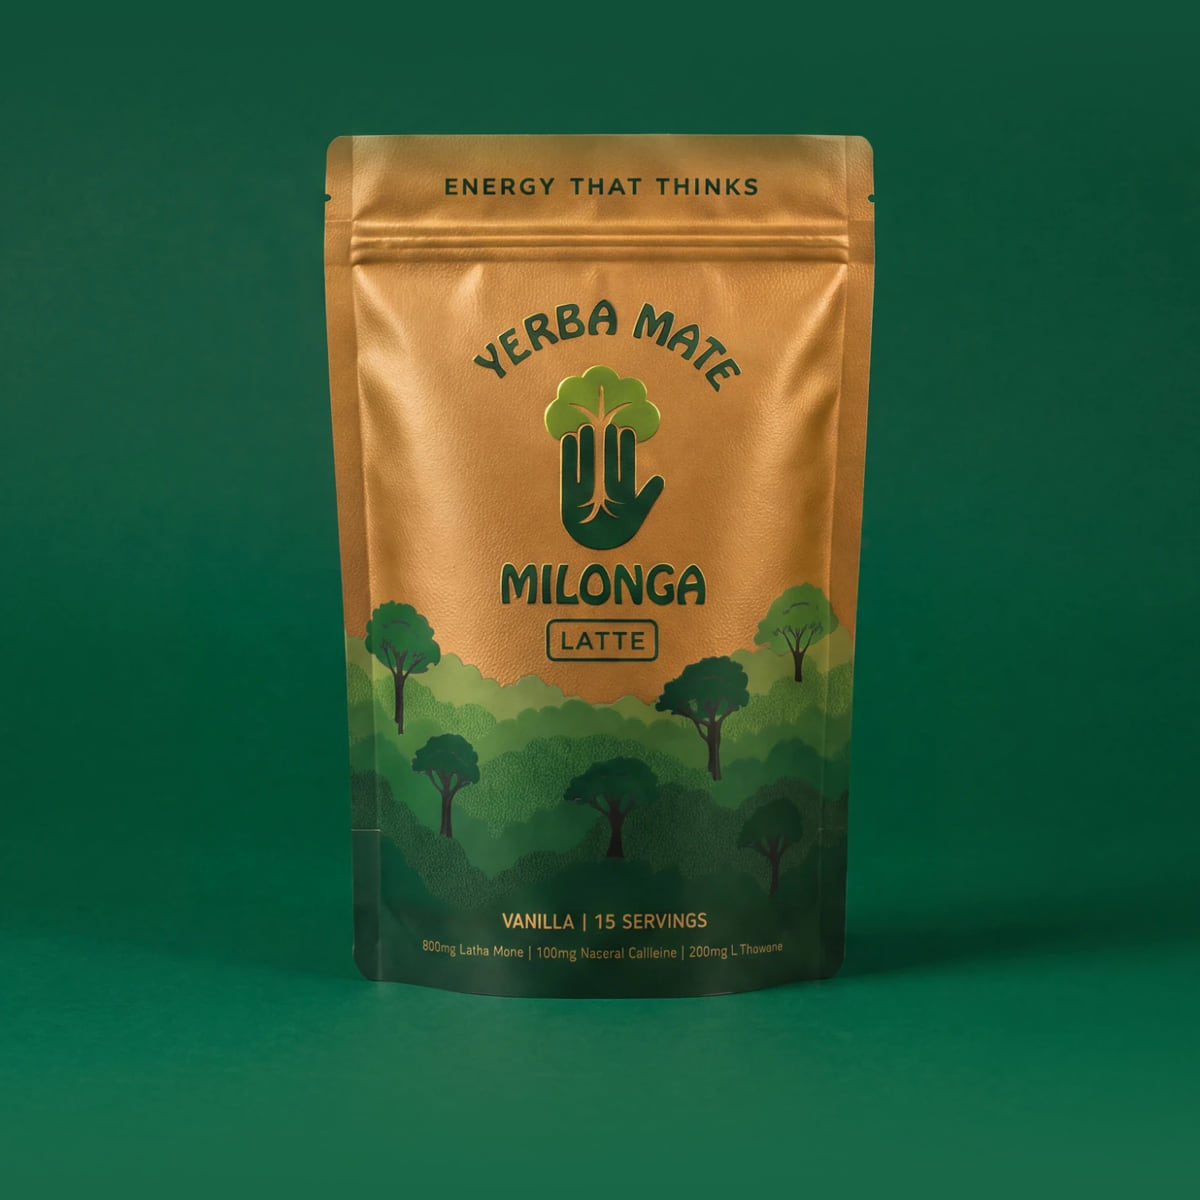
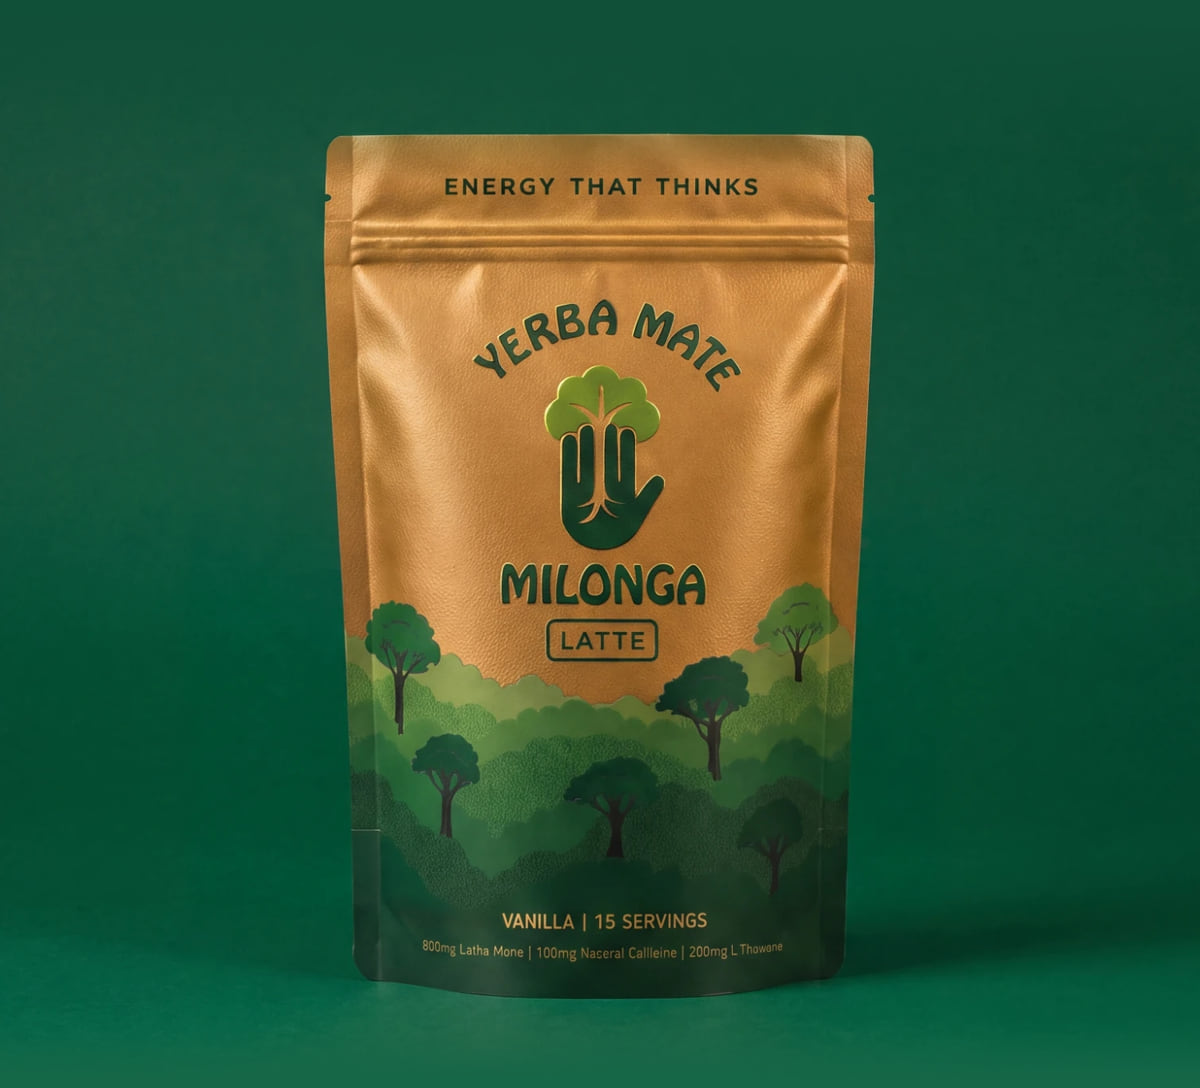
Post-purchase E3: save line in the hero, button closer to the pouch, 15 vs 30 servings cards
Claude-Session: https://claude.ai/code/session_01NhEtXPnfeCJfN73SqBkUZ5

Changed region(s): [[0.2158, 0.0938, 1.0, 0.9375]]

diff --git a/email-ds/refine/pp1-e3.html b/email-ds/refine/pp1-e3.html
@@ -41,7 +41,7 @@ body{margin:0;background:#FFFFFF;padding:28px 0 60px}
   @media (prefers-color-scheme: dark) {
     .bg-white { background-color:#FFFFFF !important; }
     .bg-hero-top { background-color:#104F38 !important; }
-    .bg-hero { background-color:#186847 !important; }
+    .bg-hero { background-color:#156747 !important; }
     .bg-cream { background-color:#F7F4EA !important; }
     .bg-page { background-color:#F0EFDF !important; }
     .bg-forest { background-color:#004D27 !important; }
@@ -61,14 +61,13 @@ body{margin:0;background:#FFFFFF;padding:28px 0 60px}
 <div style="padding-top:30px;"><div style="font-size:12px;line-height:16px;font-weight:700;letter-spacing:3px;text-transform:uppercase;color:#E3BC62;">Running low?</div></div>
 <div class="h-hero" style="padding-top:10px;font-family:'Times New Roman',Times,Georgia,serif;font-size:54px;line-height:58px;font-weight:400;color:#F0EFDF;">Your bag&rsquo;s</div>
 <div class="h-hero" style="font-family:'Times New Roman',Times,Georgia,serif;font-size:54px;line-height:58px;font-weight:700;font-style:italic;color:#F0EFDF;">almost empty.</div>
-<div class="lead" style="padding-top:16px;font-size:16px;line-height:24px;font-weight:500;color:#CFE0D4;">15 cups go fast when they&rsquo;re your morning ritual. Join the Mate Mornings Club and a fresh bag shows up every month, so your mornings <span style="white-space:nowrap;">never skip a beat.</span></div>
+<div class="lead" style="padding-top:16px;font-size:16px;line-height:24px;font-weight:500;color:#CFE0D4;">15 cups go fast when they&rsquo;re your morning ritual. Join the Mate Mornings Club and you save 30% on every order, with a fresh bag at your door every month, so your mornings <span style="white-space:nowrap;">never skip a beat.</span></div>
 </td></tr>
-<tr><td class="bg-hero-top" bgcolor="#104F38" style="background-color:#104F38;padding:0;font-size:0;line-height:0;"><a href="https://milonga.life/products/the-original-mate-latte?utm_source=klaviyo&amp;utm_medium=email&amp;utm_campaign=post_purchase_mate_latte&amp;utm_content=pp3_hero_photo" target="_blank"><img class="full" src="../exports/klaviyo/pp1-e3/img/hero.jpg" width="600" height="600" alt="The Mate Latte pouch on deep green" style="display:block;width:600px;height:600px;border:0;"></a></td></tr>
-<tr><td class="pad bg-hero" align="center" bgcolor="#186847" style="background-color:#186847;padding:0 40px 52px;font-family:'Montserrat','Helvetica Neue',Helvetica,Arial,sans-serif;">
+<tr><td class="bg-hero-top" bgcolor="#104F38" style="background-color:#104F38;padding:0;font-size:0;line-height:0;"><a href="https://milonga.life/products/the-original-mate-latte?utm_source=klaviyo&amp;utm_medium=email&amp;utm_campaign=post_purchase_mate_latte&amp;utm_content=pp3_hero_photo" target="_blank"><img class="full" src="../exports/klaviyo/pp1-e3/img/hero.jpg" width="600" height="544" alt="The Mate Latte pouch on deep green" style="display:block;width:600px;height:544px;border:0;"></a></td></tr>
+<tr><td class="pad bg-hero" align="center" bgcolor="#156747" style="background-color:#156747;padding:0 40px 52px;font-family:'Montserrat','Helvetica Neue',Helvetica,Arial,sans-serif;">
 <!--[if mso]>
 <v:roundrect xmlns:v="urn:schemas-microsoft-com:vml" xmlns:w="urn:schemas-microsoft-com:office:word" href="https://milonga.life/products/the-original-mate-latte?utm_source=klaviyo&amp;utm_medium=email&amp;utm_campaign=post_purchase_mate_latte&amp;utm_content=pp3_hero_button" style="height:56px;v-text-anchor:middle;width:280px;" arcsize="50%" stroke="f" fillcolor="#E3BC62"><w:anchorlock/><center style="color:#004D27;font-family:Arial,sans-serif;font-size:16px;font-weight:bold;letter-spacing:2px;">Join the club</center></v:roundrect>
 <![endif]--><!--[if !mso]><!-- --><a href="https://milonga.life/products/the-original-mate-latte?utm_source=klaviyo&amp;utm_medium=email&amp;utm_campaign=post_purchase_mate_latte&amp;utm_content=pp3_hero_button" target="_blank" class="btn" style="display:inline-block;background-color:#E3BC62;border-radius:999px;padding:20px 40px;font-family:'Montserrat','Helvetica Neue',Helvetica,Arial,sans-serif;font-size:16px;line-height:16px;font-weight:700;letter-spacing:2px;text-transform:uppercase;white-space:nowrap;color:#004D27;text-decoration:none;box-shadow:0 4px 0 #B8913A;">Join the club</a><!--<![endif]-->
-<div style="padding-top:18px;font-size:11px;line-height:16px;font-weight:700;letter-spacing:2px;text-transform:uppercase;color:#F0EFDF;"><span style="white-space:nowrap;">Free shipping over $45</span> &middot; <span style="white-space:nowrap;">30-day money-back guarantee</span></div>
 </td></tr>
 
 <!-- ── 2 · ONE BAG, 15 CUPS: the cups already had, and the last few ── -->
@@ -89,18 +88,19 @@ body{margin:0;background:#FFFFFF;padding:28px 0 60px}
 <div style="font-size:12px;line-height:16px;font-weight:700;letter-spacing:3px;text-transform:uppercase;color:#004D27;">Keep it going for less</div>
 <div class="h-sec" style="padding-top:12px;font-family:'Times New Roman',Times,Georgia,serif;font-size:40px;line-height:44px;font-weight:400;color:#004D27;">Same Mate Latte,</div>
 <div class="h-sec" style="font-family:'Times New Roman',Times,Georgia,serif;font-size:40px;line-height:44px;font-weight:700;font-style:italic;color:#004D27;">30% less.</div>
+<div class="lead" style="padding-top:16px;font-size:16px;line-height:24px;font-weight:500;color:#12331F;">A 15-serving bag lasts about two weeks. Go for 30 servings in the club and you&rsquo;re covered <span style="white-space:nowrap;">all month,</span> <span style="white-space:nowrap;">for less a cup.</span></div>
 </td></tr>
-<tr><td class="pad-photo bg-page" bgcolor="#F0EFDF" style="background-color:#F0EFDF;padding:28px 30px 56px;">
+<tr><td class="pad-photo bg-page" bgcolor="#F0EFDF" style="background-color:#F0EFDF;padding:28px 30px 26px;">
 <table role="presentation" width="100%" cellpadding="0" cellspacing="0" border="0" style="border-collapse:separate;"><tr>
 <td class="cmp-l" width="50%" valign="top" style="width:50%;padding:0 6px 0 0;">
 <table role="presentation" width="100%" cellpadding="0" cellspacing="0" border="0" style="border-collapse:separate;"><tr>
 <td class="cmp-card" align="center" valign="top" bgcolor="#FFFFFF" style="background-color:#FFFFFF;border:2px solid #D9D6BE;border-radius:22px; padding:24px 16px 22px;font-family:'Montserrat','Helvetica Neue',Helvetica,Arial,sans-serif;">
 <div style="font-size:11px;line-height:14px;font-weight:700;letter-spacing:2px;text-transform:uppercase;color:#004D27;">One-time</div>
-<div class="cmp-price" style="padding-top:12px;font-family:'Times New Roman',Times,Georgia,serif;font-size:40px;line-height:42px;font-weight:700;color:#004D27;">$69.98</div>
-<div class="cmp-text" style="padding-top:6px;font-size:14px;line-height:18px;font-weight:700;color:#12331F;">30 servings</div>
+<div class="cmp-price" style="padding-top:12px;font-family:'Times New Roman',Times,Georgia,serif;font-size:40px;line-height:42px;font-weight:700;color:#004D27;">$34.99</div>
+<div class="cmp-text" style="padding-top:6px;font-size:14px;line-height:18px;font-weight:700;color:#12331F;">15 servings</div>
 <div class="cmp-text" style="padding-top:2px;font-size:13px;line-height:18px;font-weight:500;color:#3B5344;">$2.33 a cup</div>
 <div style="margin:16px auto 0;width:40px;border-top:2px solid #D9D6BE;font-size:0;line-height:0;">&nbsp;</div>
-<div class="cmp-text" style="padding-top:8px;font-size:13px;line-height:18px;font-weight:500;color:#12331F;">Reorder yourself each time <span style="white-space:nowrap;">you run out</span></div>
+<div class="cmp-text" style="padding-top:8px;font-size:13px;line-height:18px;font-weight:500;color:#12331F;">About two weeks of mornings, then <span style="white-space:nowrap;">reorder yourself</span></div>
 <div style="padding-top:18px;"><table role="presentation" cellpadding="0" cellspacing="0" border="0" align="center" style="margin:0 auto;border-collapse:separate;"><tr>
 <td class="pill" align="center" bgcolor="#004D27" style="background-color:#004D27;border-radius:999px;"><a href="https://milonga.life/products/the-original-mate-latte?utm_source=klaviyo&amp;utm_medium=email&amp;utm_campaign=post_purchase_mate_latte&amp;utm_content=pp3_onetime_link" target="_blank" style="display:inline-block;padding:11px 20px;font-family:'Montserrat','Helvetica Neue',Helvetica,Arial,sans-serif;font-size:12px;line-height:14px;font-weight:700;letter-spacing:1.5px;text-transform:uppercase;white-space:nowrap;color:#F0EFDF;text-decoration:none;">Buy one-time</a></td>
 </tr></table></div>
@@ -109,7 +109,7 @@ body{margin:0;background:#FFFFFF;padding:28px 0 60px}
 <td class="cmp-r" width="50%" valign="top" style="width:50%;padding:0 0 0 6px;">
 <table role="presentation" width="100%" cellpadding="0" cellspacing="0" border="0" style="border-collapse:separate;"><tr>
 <td class="cmp-card" align="center" valign="top" bgcolor="#004D27" style="background-color:#004D27;border:3px solid #E3BC62;border-radius:22px; padding:24px 16px 22px;font-family:'Montserrat','Helvetica Neue',Helvetica,Arial,sans-serif;">
-<div style="display:inline-block;background-color:#E3BC62;border-radius:999px;padding:5px 12px;font-size:10px;line-height:12px;font-weight:700;letter-spacing:1.5px;text-transform:uppercase;color:#004D27;">Best value</div>
+<div style="display:inline-block;background-color:#E3BC62;border-radius:999px;padding:5px 12px;font-size:10px;line-height:12px;font-weight:700;letter-spacing:1.5px;text-transform:uppercase;color:#004D27;">Double the cups</div>
 <div style="padding-top:10px;font-family:'Times New Roman',Times,Georgia,serif;font-size:20px;line-height:22px;font-weight:700;font-style:italic;color:#E3BC62;">Mate Mornings Club</div>
 <div class="cmp-price" style="padding-top:8px;font-family:'Times New Roman',Times,Georgia,serif;font-size:40px;line-height:42px;font-weight:700;color:#FFFFFF;">$48.99</div>
 <div class="cmp-text" style="padding-top:6px;font-size:14px;line-height:18px;font-weight:700;color:#FFFFFF;">30 servings <span style="font-weight:500;color:#CFE0D4;text-decoration:line-through;">$69.98</span></div>
@@ -123,13 +123,16 @@ body{margin:0;background:#FFFFFF;padding:28px 0 60px}
 <tr><td class="club-ico" width="20" valign="top" style="width:20px;padding:9px 8px 0 0;"><img src="../exports/klaviyo/cart-e1/img/icon-pause.png" width="18" height="18" alt="" role="presentation" style="display:block;width:18px;height:18px;border:0;"></td>
 <td class="cmp-text" valign="top" style="padding:8px 0 0;font-family:'Montserrat','Helvetica Neue',Helvetica,Arial,sans-serif;font-size:13px;line-height:18px;font-weight:500;color:#FFFFFF;text-align:left;">Skip, pause or cancel anytime</td></tr>
 </table>
-<div class="cmp-text" style="padding-top:12px;font-size:13px;line-height:18px;font-weight:700;color:#E3BC62;">Your Mate Latte every morning, <span style="white-space:nowrap;">all month long.</span></div>
+<div class="cmp-text" style="padding-top:12px;font-size:13px;line-height:18px;font-weight:700;color:#E3BC62;">Twice the cups, a whole month <span style="white-space:nowrap;">of mornings.</span></div>
 <div style="padding-top:16px;"><table role="presentation" cellpadding="0" cellspacing="0" border="0" align="center" style="margin:0 auto;border-collapse:separate;"><tr>
 <td class="pill" align="center" bgcolor="#E3BC62" style="background-color:#E3BC62;border-radius:999px;"><a href="https://milonga.life/products/the-original-mate-latte?utm_source=klaviyo&amp;utm_medium=email&amp;utm_campaign=post_purchase_mate_latte&amp;utm_content=pp3_club_card" target="_blank" style="display:inline-block;padding:11px 20px;font-family:'Montserrat','Helvetica Neue',Helvetica,Arial,sans-serif;font-size:12px;line-height:14px;font-weight:700;letter-spacing:1.5px;text-transform:uppercase;white-space:nowrap;color:#004D27;text-decoration:none;">Join the club</a></td>
 </tr></table></div>
 </td></tr></table>
 </td>
 </tr></table>
+</td></tr>
+<tr><td class="pad bg-page" align="center" bgcolor="#F0EFDF" style="background-color:#F0EFDF;padding:0 40px 56px;font-family:'Montserrat','Helvetica Neue',Helvetica,Arial,sans-serif;">
+<div style="font-family:'Times New Roman',Times,Georgia,serif;font-size:24px;line-height:28px;font-weight:700;font-style:italic;color:#004D27;">Twice the cups for just $14 more.</div>
 </td></tr>
 
 <!-- ── 4 · HOW THE CLUB WORKS ─────────────────────────────────────── -->

diff --git a/email-ds/exports/klaviyo/pp1-e3/pp1-e3.html b/email-ds/exports/klaviyo/pp1-e3/pp1-e3.html
@@ -44,7 +44,7 @@
   @media (prefers-color-scheme: dark) {
     .bg-white { background-color:#FFFFFF !important; }
     .bg-hero-top { background-color:#104F38 !important; }
-    .bg-hero { background-color:#186847 !important; }
+    .bg-hero { background-color:#156747 !important; }
     .bg-cream { background-color:#F7F4EA !important; }
     .bg-page { background-color:#F0EFDF !important; }
     .bg-forest { background-color:#004D27 !important; }
@@ -63,14 +63,13 @@
 <div style="padding-top:30px;"><div style="font-size:12px;line-height:16px;font-weight:700;letter-spacing:3px;text-transform:uppercase;color:#E3BC62;">Running low?</div></div>
 <div class="h-hero" style="padding-top:10px;font-family:'Times New Roman',Times,Georgia,serif;font-size:54px;line-height:58px;font-weight:400;color:#F0EFDF;">Your bag&rsquo;s</div>
 <div class="h-hero" style="font-family:'Times New Roman',Times,Georgia,serif;font-size:54px;line-height:58px;font-weight:700;font-style:italic;color:#F0EFDF;">almost empty.</div>
-<div class="lead" style="padding-top:16px;font-size:16px;line-height:24px;font-weight:500;color:#CFE0D4;">15 cups go fast when they&rsquo;re your morning ritual. Join the Mate Mornings Club and a fresh bag shows up every month, so your mornings <span style="white-space:nowrap;">never skip a beat.</span></div>
+<div class="lead" style="padding-top:16px;font-size:16px;line-height:24px;font-weight:500;color:#CFE0D4;">15 cups go fast when they&rsquo;re your morning ritual. Join the Mate Mornings Club and you save 30% on every order, with a fresh bag at your door every month, so your mornings <span style="white-space:nowrap;">never skip a beat.</span></div>
 </td></tr>
-<tr><td class="bg-hero-top" bgcolor="#104F38" style="background-color:#104F38;padding:0;font-size:0;line-height:0;"><a href="https://milonga.life/products/the-original-mate-latte?utm_source=klaviyo&amp;utm_medium=email&amp;utm_campaign=post_purchase_mate_latte&amp;utm_content=pp3_hero_photo" target="_blank"><img class="full" src="https://cdn.klaviyomail.com/company/TwvSnK/images/f698c772-5783-4bb6-bc98-c63cbfb698ec.jpeg" width="600" height="600" alt="The Mate Latte pouch on deep green" style="display:block;width:600px;height:600px;border:0;"></a></td></tr>
-<tr><td class="pad bg-hero" align="center" bgcolor="#186847" style="background-color:#186847;padding:0 40px 52px;font-family:'Montserrat','Helvetica Neue',Helvetica,Arial,sans-serif;">
+<tr><td class="bg-hero-top" bgcolor="#104F38" style="background-color:#104F38;padding:0;font-size:0;line-height:0;"><a href="https://milonga.life/products/the-original-mate-latte?utm_source=klaviyo&amp;utm_medium=email&amp;utm_campaign=post_purchase_mate_latte&amp;utm_content=pp3_hero_photo" target="_blank"><img class="full" src="https://cdn.klaviyomail.com/company/TwvSnK/images/f698c772-5783-4bb6-bc98-c63cbfb698ec.jpeg" width="600" height="544" alt="The Mate Latte pouch on deep green" style="display:block;width:600px;height:544px;border:0;"></a></td></tr>
+<tr><td class="pad bg-hero" align="center" bgcolor="#156747" style="background-color:#156747;padding:0 40px 52px;font-family:'Montserrat','Helvetica Neue',Helvetica,Arial,sans-serif;">
 <!--[if mso]>
 <v:roundrect xmlns:v="urn:schemas-microsoft-com:vml" xmlns:w="urn:schemas-microsoft-com:office:word" href="https://milonga.life/products/the-original-mate-latte?utm_source=klaviyo&amp;utm_medium=email&amp;utm_campaign=post_purchase_mate_latte&amp;utm_content=pp3_hero_button" style="height:56px;v-text-anchor:middle;width:280px;" arcsize="50%" stroke="f" fillcolor="#E3BC62"><w:anchorlock/><center style="color:#004D27;font-family:Arial,sans-serif;font-size:16px;font-weight:bold;letter-spacing:2px;">Join the club</center></v:roundrect>
 <![endif]--><!--[if !mso]><!-- --><a href="https://milonga.life/products/the-original-mate-latte?utm_source=klaviyo&amp;utm_medium=email&amp;utm_campaign=post_purchase_mate_latte&amp;utm_content=pp3_hero_button" target="_blank" class="btn" style="display:inline-block;background-color:#E3BC62;border-radius:999px;padding:20px 40px;font-family:'Montserrat','Helvetica Neue',Helvetica,Arial,sans-serif;font-size:16px;line-height:16px;font-weight:700;letter-spacing:2px;text-transform:uppercase;white-space:nowrap;color:#004D27;text-decoration:none;box-shadow:0 4px 0 #B8913A;">Join the club</a><!--<![endif]-->
-<div style="padding-top:18px;font-size:11px;line-height:16px;font-weight:700;letter-spacing:2px;text-transform:uppercase;color:#F0EFDF;"><span style="white-space:nowrap;">Free shipping over $45</span> &middot; <span style="white-space:nowrap;">30-day money-back guarantee</span></div>
 </td></tr>
 
 <!-- ── 2 · ONE BAG, 15 CUPS: the cups already had, and the last few ── -->
@@ -91,18 +90,19 @@
 <div style="font-size:12px;line-height:16px;font-weight:700;letter-spacing:3px;text-transform:uppercase;color:#004D27;">Keep it going for less</div>
 <div class="h-sec" style="padding-top:12px;font-family:'Times New Roman',Times,Georgia,serif;font-size:40px;line-height:44px;font-weight:400;color:#004D27;">Same Mate Latte,</div>
 <div class="h-sec" style="font-family:'Times New Roman',Times,Georgia,serif;font-size:40px;line-height:44px;font-weight:700;font-style:italic;color:#004D27;">30% less.</div>
+<div class="lead" style="padding-top:16px;font-size:16px;line-height:24px;font-weight:500;color:#12331F;">A 15-serving bag lasts about two weeks. Go for 30 servings in the club and you&rsquo;re covered <span style="white-space:nowrap;">all month,</span> <span style="white-space:nowrap;">for less a cup.</span></div>
 </td></tr>
-<tr><td class="pad-photo bg-page" bgcolor="#F0EFDF" style="background-color:#F0EFDF;padding:28px 30px 56px;">
+<tr><td class="pad-photo bg-page" bgcolor="#F0EFDF" style="background-color:#F0EFDF;padding:28px 30px 26px;">
 <table role="presentation" width="100%" cellpadding="0" cellspacing="0" border="0" style="border-collapse:separate;"><tr>
 <td class="cmp-l" width="50%" valign="top" style="width:50%;padding:0 6px 0 0;">
 <table role="presentation" width="100%" cellpadding="0" cellspacing="0" border="0" style="border-collapse:separate;"><tr>
 <td class="cmp-card" align="center" valign="top" bgcolor="#FFFFFF" style="background-color:#FFFFFF;border:2px solid #D9D6BE;border-radius:22px; padding:24px 16px 22px;font-family:'Montserrat','Helvetica Neue',Helvetica,Arial,sans-serif;">
 <div style="font-size:11px;line-height:14px;font-weight:700;letter-spacing:2px;text-transform:uppercase;color:#004D27;">One-time</div>
-<div class="cmp-price" style="padding-top:12px;font-family:'Times New Roman',Times,Georgia,serif;font-size:40px;line-height:42px;font-weight:700;color:#004D27;">$69.98</div>
-<div class="cmp-text" style="padding-top:6px;font-size:14px;line-height:18px;font-weight:700;color:#12331F;">30 servings</div>
+<div class="cmp-price" style="padding-top:12px;font-family:'Times New Roman',Times,Georgia,serif;font-size:40px;line-height:42px;font-weight:700;color:#004D27;">$34.99</div>
+<div class="cmp-text" style="padding-top:6px;font-size:14px;line-height:18px;font-weight:700;color:#12331F;">15 servings</div>
 <div class="cmp-text" style="padding-top:2px;font-size:13px;line-height:18px;font-weight:500;color:#3B5344;">$2.33 a cup</div>
 <div style="margin:16px auto 0;width:40px;border-top:2px solid #D9D6BE;font-size:0;line-height:0;">&nbsp;</div>
-<div class="cmp-text" style="padding-top:8px;font-size:13px;line-height:18px;font-weight:500;color:#12331F;">Reorder yourself each time <span style="white-space:nowrap;">you run out</span></div>
+<div class="cmp-text" style="padding-top:8px;font-size:13px;line-height:18px;font-weight:500;color:#12331F;">About two weeks of mornings, then <span style="white-space:nowrap;">reorder yourself</span></div>
 <div style="padding-top:18px;"><table role="presentation" cellpadding="0" cellspacing="0" border="0" align="center" style="margin:0 auto;border-collapse:separate;"><tr>
 <td class="pill" align="center" bgcolor="#004D27" style="background-color:#004D27;border-radius:999px;"><a href="https://milonga.life/products/the-original-mate-latte?utm_source=klaviyo&amp;utm_medium=email&amp;utm_campaign=post_purchase_mate_latte&amp;utm_content=pp3_onetime_link" target="_blank" style="display:inline-block;padding:11px 20px;font-family:'Montserrat','Helvetica Neue',Helvetica,Arial,sans-serif;font-size:12px;line-height:14px;font-weight:700;letter-spacing:1.5px;text-transform:uppercase;white-space:nowrap;color:#F0EFDF;text-decoration:none;">Buy one-time</a></td>
 </tr></table></div>
@@ -111,7 +111,7 @@
 <td class="cmp-r" width="50%" valign="top" style="width:50%;padding:0 0 0 6px;">
 <table role="presentation" width="100%" cellpadding="0" cellspacing="0" border="0" style="border-collapse:separate;"><tr>
 <td class="cmp-card" align="center" valign="top" bgcolor="#004D27" style="background-color:#004D27;border:3px solid #E3BC62;border-radius:22px; padding:24px 16px 22px;font-family:'Montserrat','Helvetica Neue',Helvetica,Arial,sans-serif;">
-<div style="display:inline-block;background-color:#E3BC62;border-radius:999px;padding:5px 12px;font-size:10px;line-height:12px;font-weight:700;letter-spacing:1.5px;text-transform:uppercase;color:#004D27;">Best value</div>
+<div style="display:inline-block;background-color:#E3BC62;border-radius:999px;padding:5px 12px;font-size:10px;line-height:12px;font-weight:700;letter-spacing:1.5px;text-transform:uppercase;color:#004D27;">Double the cups</div>
 <div style="padding-top:10px;font-family:'Times New Roman',Times,Georgia,serif;font-size:20px;line-height:22px;font-weight:700;font-style:italic;color:#E3BC62;">Mate Mornings Club</div>
 <div class="cmp-price" style="padding-top:8px;font-family:'Times New Roman',Times,Georgia,serif;font-size:40px;line-height:42px;font-weight:700;color:#FFFFFF;">$48.99</div>
 <div class="cmp-text" style="padding-top:6px;font-size:14px;line-height:18px;font-weight:700;color:#FFFFFF;">30 servings <span style="font-weight:500;color:#CFE0D4;text-decoration:line-through;">$69.98</span></div>
@@ -125,13 +125,16 @@
 <tr><td class="club-ico" width="20" valign="top" style="width:20px;padding:9px 8px 0 0;"><img src="https://cdn.klaviyomail.com/company/TwvSnK/images/91e2b48f-9822-4394-9e33-88182ba8f17c.png" width="18" height="18" alt="" role="presentation" style="display:block;width:18px;height:18px;border:0;"></td>
 <td class="cmp-text" valign="top" style="padding:8px 0 0;font-family:'Montserrat','Helvetica Neue',Helvetica,Arial,sans-serif;font-size:13px;line-height:18px;font-weight:500;color:#FFFFFF;text-align:left;">Skip, pause or cancel anytime</td></tr>
 </table>
-<div class="cmp-text" style="padding-top:12px;font-size:13px;line-height:18px;font-weight:700;color:#E3BC62;">Your Mate Latte every morning, <span style="white-space:nowrap;">all month long.</span></div>
+<div class="cmp-text" style="padding-top:12px;font-size:13px;line-height:18px;font-weight:700;color:#E3BC62;">Twice the cups, a whole month <span style="white-space:nowrap;">of mornings.</span></div>
 <div style="padding-top:16px;"><table role="presentation" cellpadding="0" cellspacing="0" border="0" align="center" style="margin:0 auto;border-collapse:separate;"><tr>
 <td class="pill" align="center" bgcolor="#E3BC62" style="background-color:#E3BC62;border-radius:999px;"><a href="https://milonga.life/products/the-original-mate-latte?utm_source=klaviyo&amp;utm_medium=email&amp;utm_campaign=post_purchase_mate_latte&amp;utm_content=pp3_club_card" target="_blank" style="display:inline-block;padding:11px 20px;font-family:'Montserrat','Helvetica Neue',Helvetica,Arial,sans-serif;font-size:12px;line-height:14px;font-weight:700;letter-spacing:1.5px;text-transform:uppercase;white-space:nowrap;color:#004D27;text-decoration:none;">Join the club</a></td>
 </tr></table></div>
 </td></tr></table>
 </td>
 </tr></table>
+</td></tr>
+<tr><td class="pad bg-page" align="center" bgcolor="#F0EFDF" style="background-color:#F0EFDF;padding:0 40px 56px;font-family:'Montserrat','Helvetica Neue',Helvetica,Arial,sans-serif;">
+<div style="font-family:'Times New Roman',Times,Georgia,serif;font-size:24px;line-height:28px;font-weight:700;font-style:italic;color:#004D27;">Twice the cups for just $14 more.</div>
 </td></tr>
 
 <!-- ── 4 · HOW THE CLUB WORKS ─────────────────────────────────────── -->
